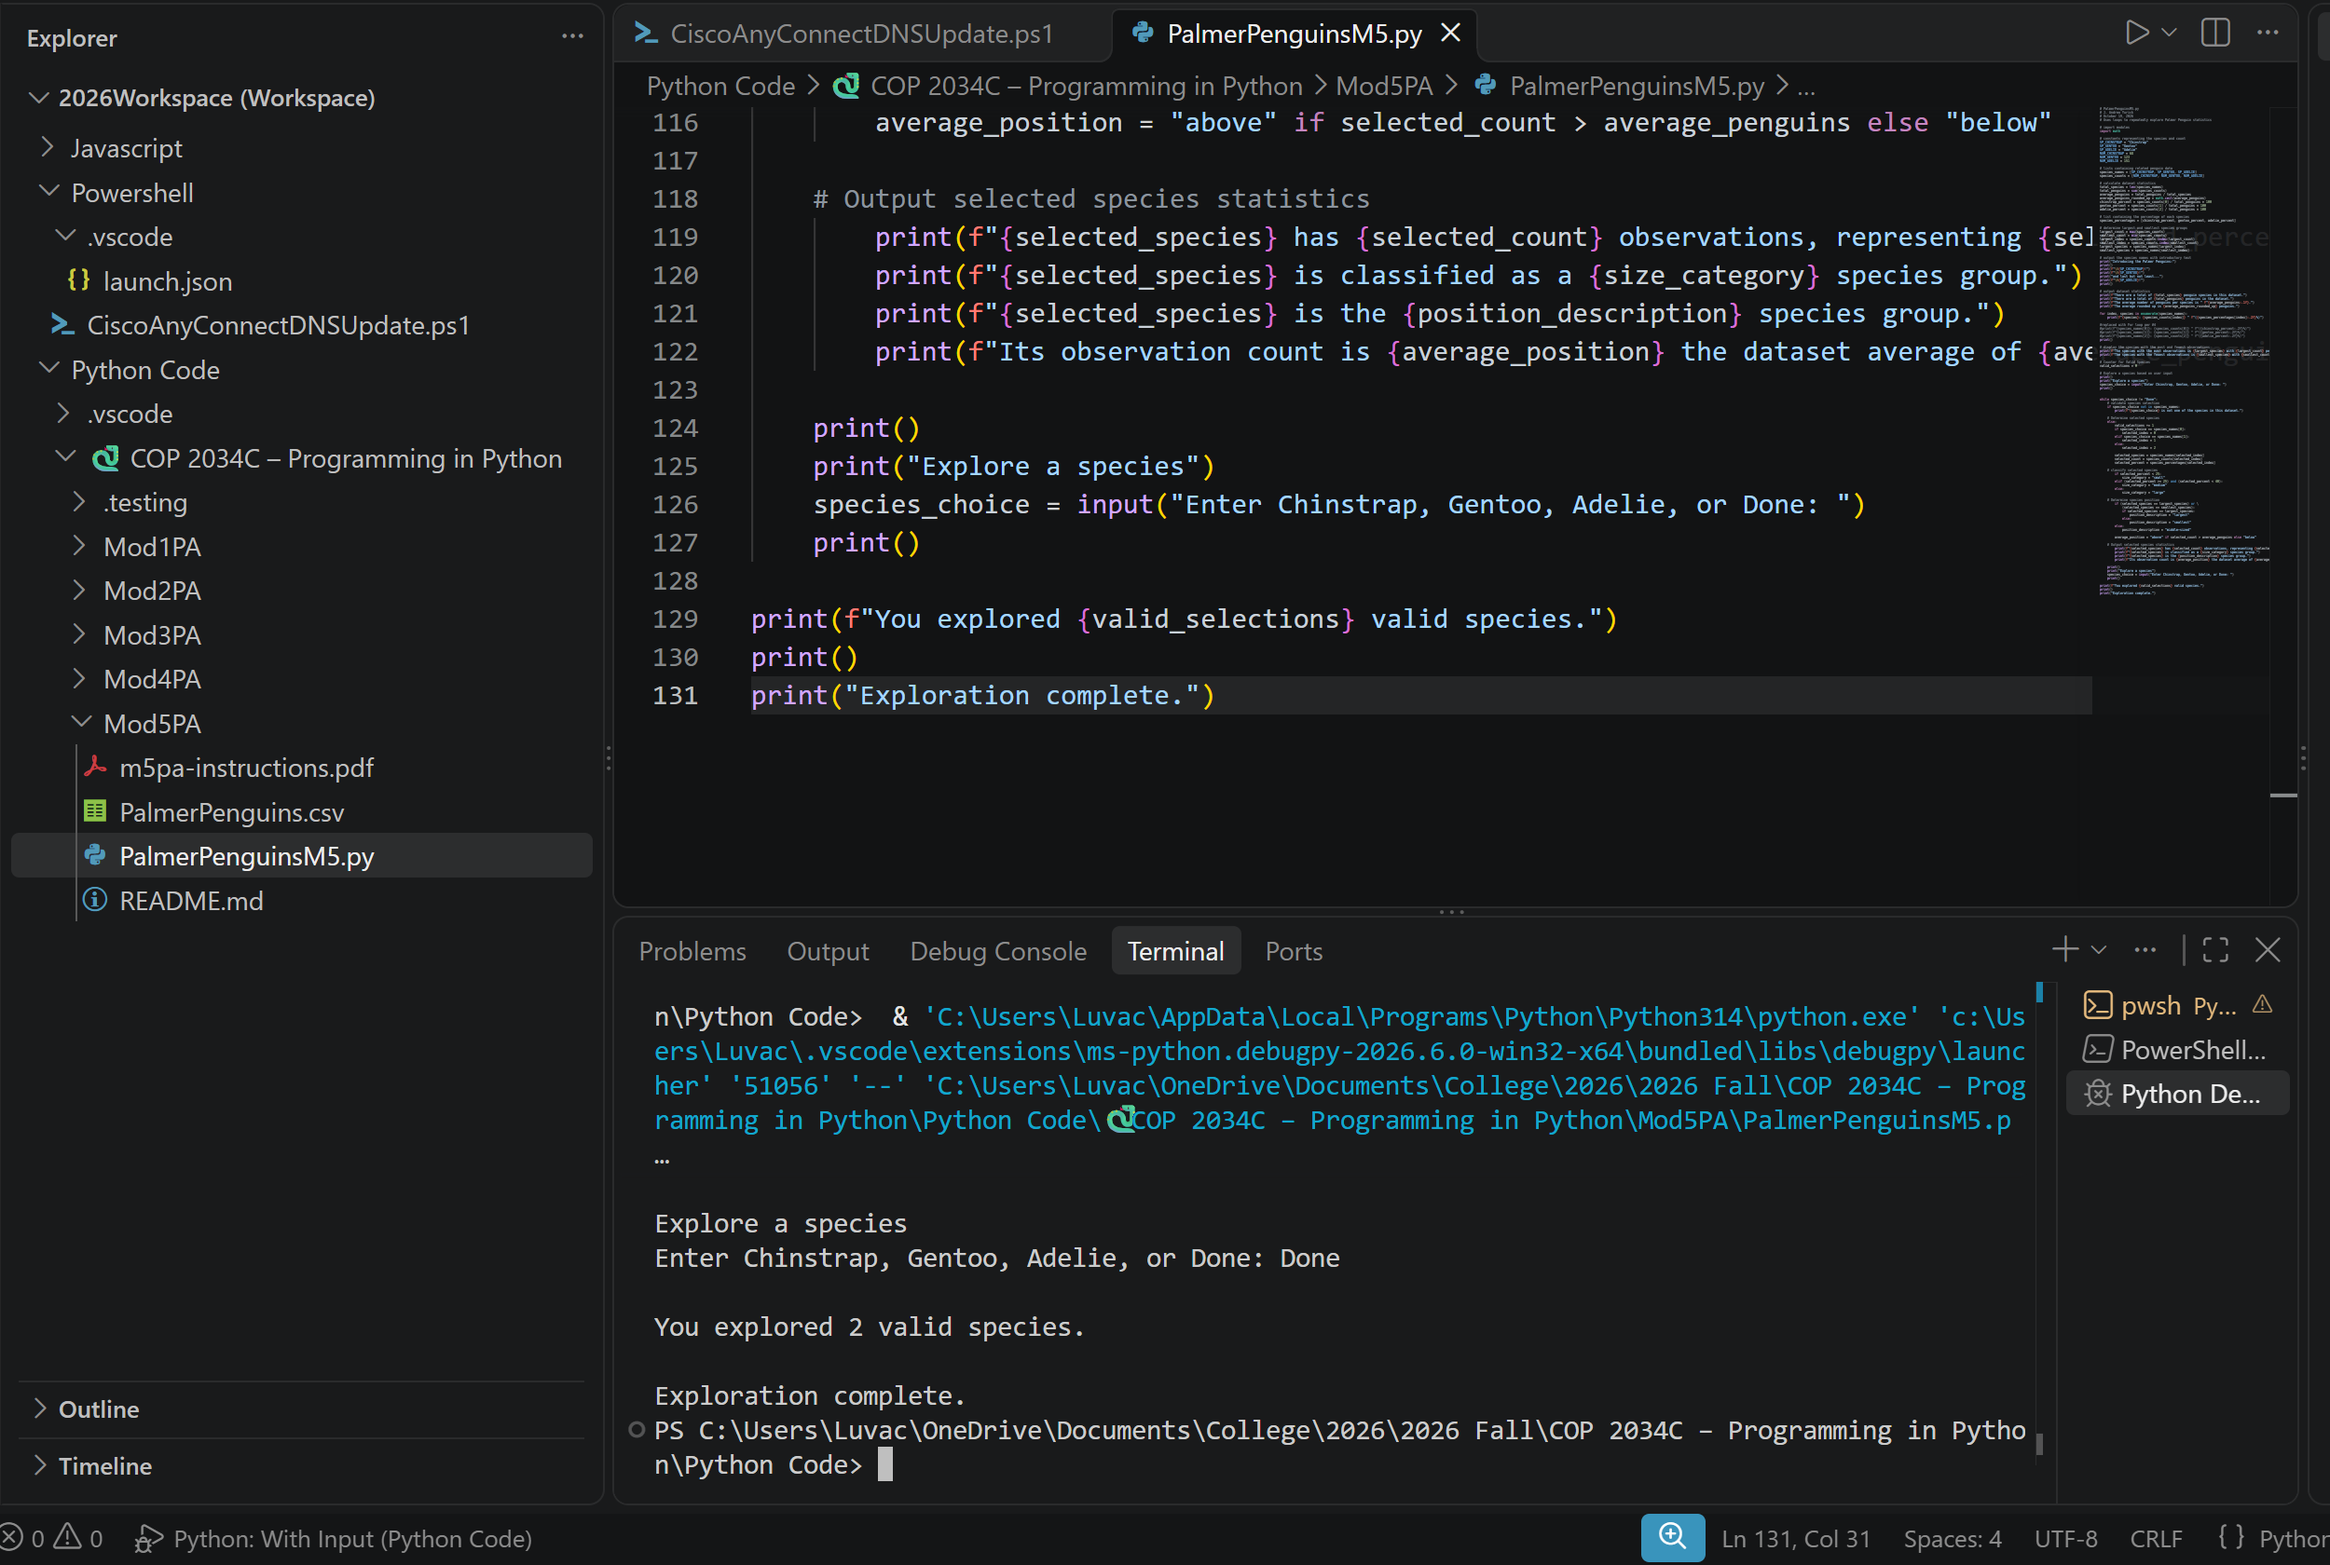
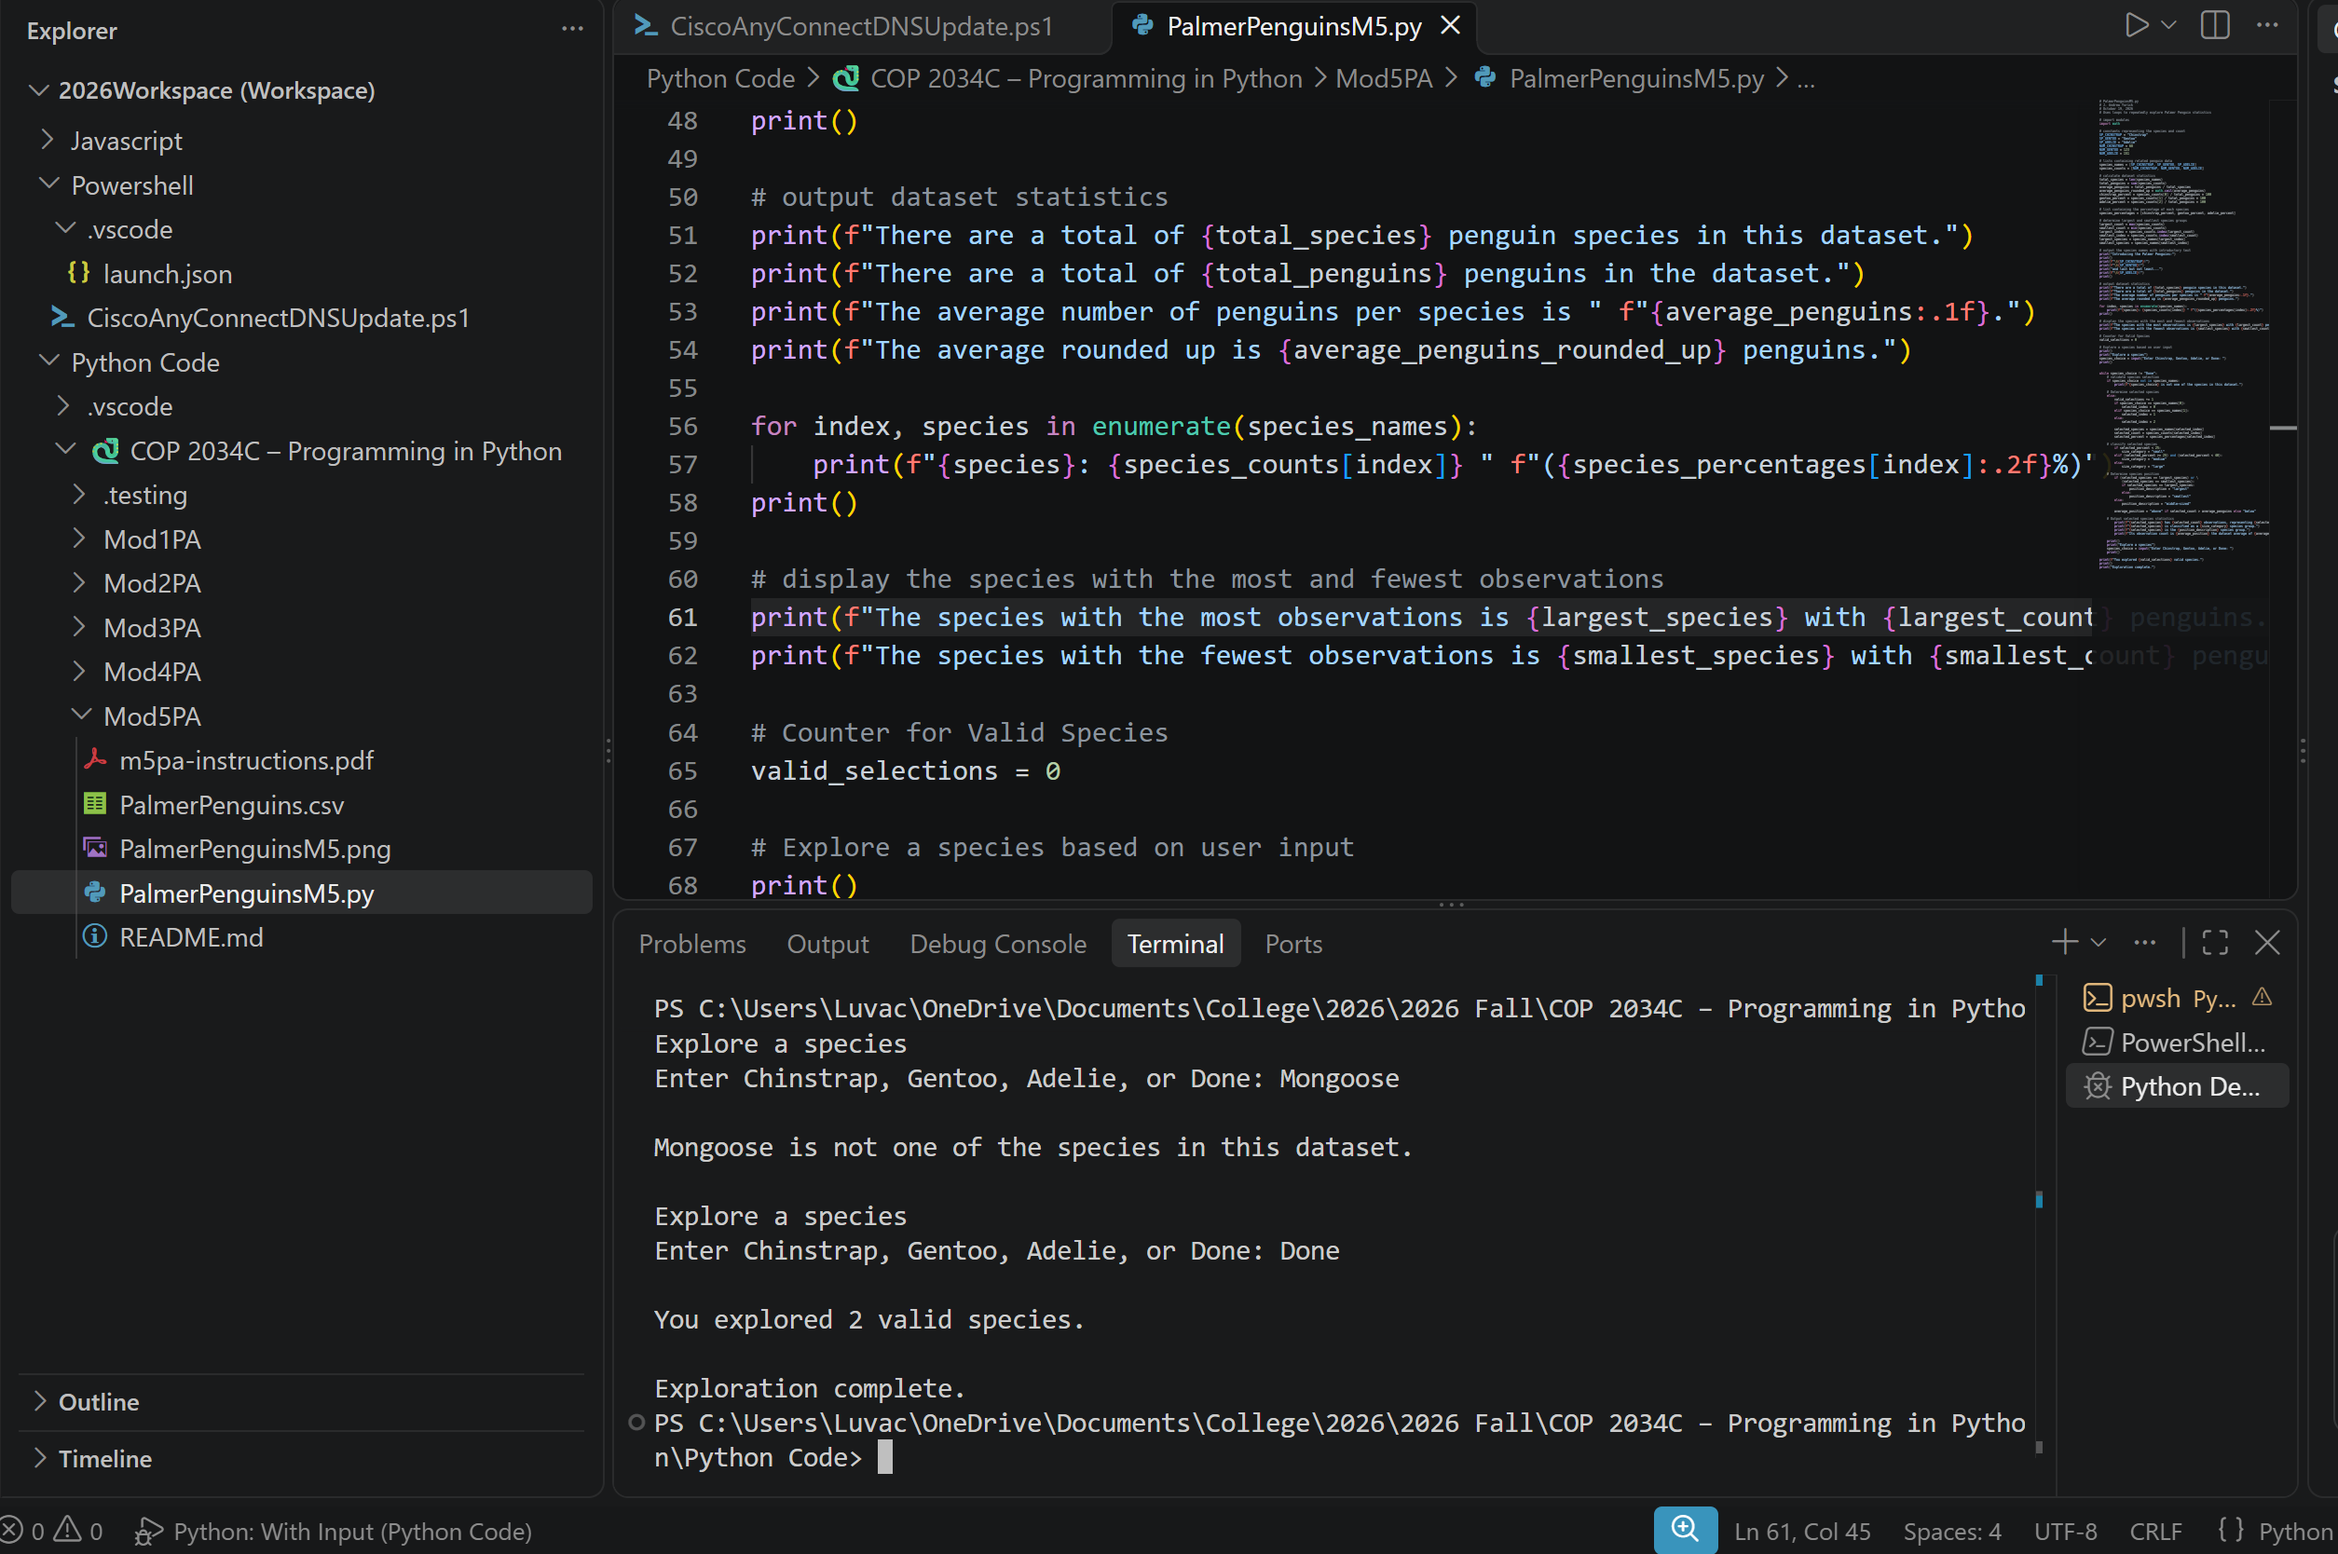
Add files via upload

diff --git a/PalmerPenguinsM5.py b/PalmerPenguinsM5.py
@@ -55,11 +55,6 @@ print(f"The average rounded up is {average_penguins_rounded_up} penguins.")
 
 for index, species in enumerate(species_names):
     print(f"{species}: {species_counts[index]} " f"({species_percentages[index]:.2f}%)")
-
-#replaced with For loop per #4
-#print(f"{species_names[0]}: {species_counts[0]} " f"({chinstrap_percent:.2f}%)")
-#print(f"{species_names[1]}: {species_counts[1]} " f"({gentoo_percent:.2f}%)")
-#print(f"{species_names[2]}: {species_counts[2]} " f"({adelie_percent:.2f}%)")
 print()
 
 # display the species with the most and fewest observations
